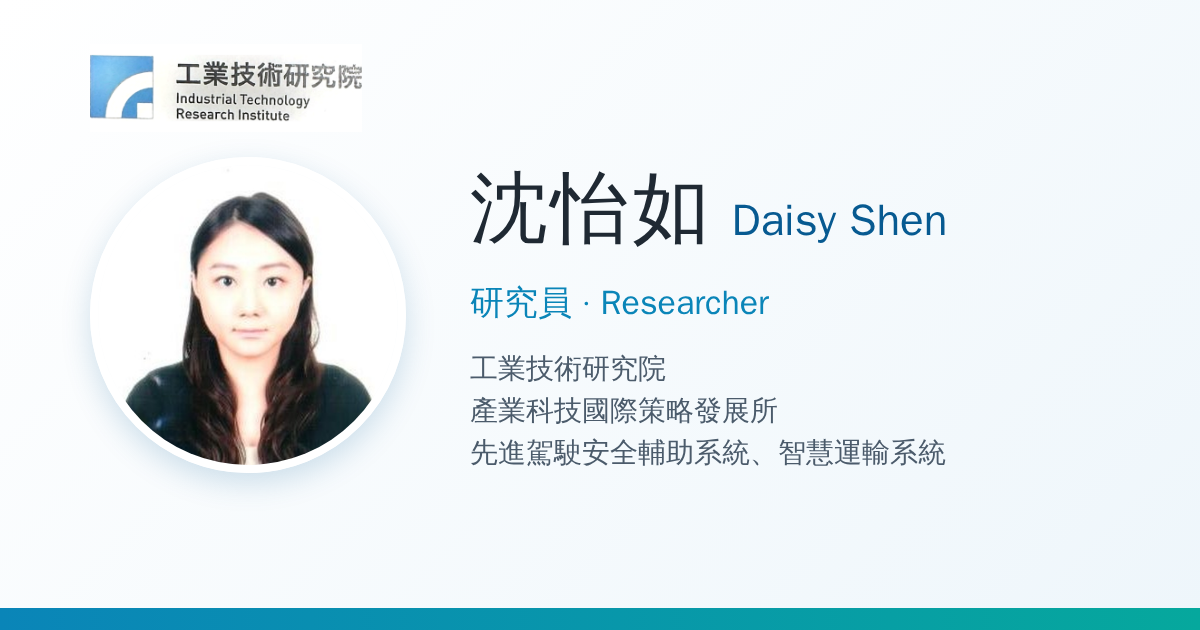
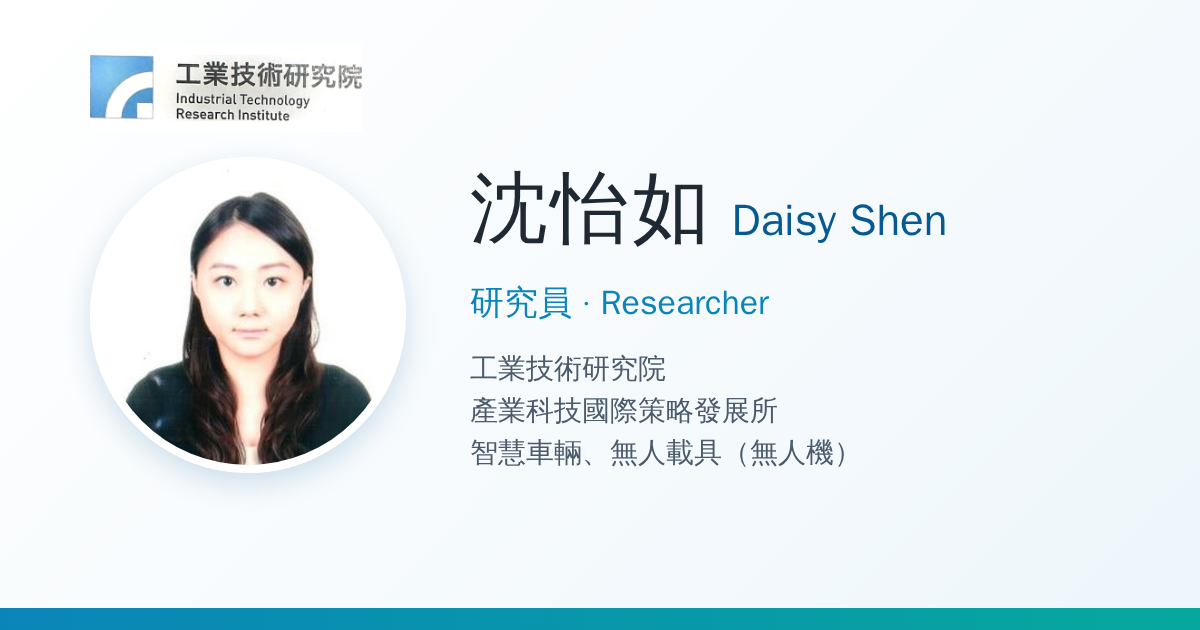
Update domain and expertise to smart vehicles and unmanned vehicles
Claude-Session: https://claude.ai/code/session_01NY8AqdpDoNgV5XpnomLSjT

Changed region(s): [[0.37, 0.6937, 0.8017, 0.754]]

diff --git a/card/config.js b/card/config.js
@@ -29,9 +29,9 @@ export const card = {
     nameSub: { zh: "Daisy Shen", en: "沈怡如", ja: "沈怡如" },
     title:   { zh: "研究員", en: "Researcher", ja: "研究員" },
     domain:  {
-      zh: "先進駕駛安全輔助系統、智慧運輸系統",
-      en: "Advanced Driver Assistance Systems & Intelligent Transportation Systems",
-      ja: "先進運転支援システム・高度道路交通システム（ITS）",
+      zh: "智慧車輛（聯網自駕車、車用電子）、無人載具（無人機）",
+      en: "Smart Vehicles (Connected & Autonomous Vehicles, Automotive Electronics) and Unmanned Vehicles (Drones)",
+      ja: "スマートビークル（コネクテッド自動運転車・車載エレクトロニクス）、無人機（ドローン）",
     },
     organization: {
       zh: ["工業技術研究院", "產業科技國際策略發展所", "智慧移動載具與應用研究部 機械與系統研究組"],
@@ -55,9 +55,9 @@ export const card = {
 
   expertise: {
     heading: {
-      zh: "智慧運輸與車輛產業研究",
-      en: "Intelligent Transportation & Automotive Industry Research",
-      ja: "高度道路交通と自動車産業の研究",
+      zh: "智慧車輛與無人載具研究",
+      en: "Smart Vehicle & Unmanned Vehicle Research",
+      ja: "スマートビークルと無人機の研究",
     },
     bio: {
       zh: "沈怡如（Daisy Shen）現任工研院產業科技國際策略發展所研究員，畢業於國立交通大學運輸科技與管理學系研究所，專長領域為智慧型運輸系統。",
@@ -71,10 +71,11 @@ export const card = {
     },
     // 3～5 項為宜，手機上超過 5 項會變長條
     items: [
+      { zh: "聯網自駕車",             en: "Connected & Autonomous Vehicles",           ja: "コネクテッド自動運転車" },
+      { zh: "車用電子",               en: "Automotive Electronics",                    ja: "車載エレクトロニクス" },
+      { zh: "無人載具（無人機）",     en: "Unmanned Vehicles (Drones)",                ja: "無人機（ドローン）" },
       { zh: "先進駕駛輔助系統（ADAS）", en: "Advanced Driver Assistance Systems (ADAS)", ja: "先進運転支援システム（ADAS）" },
       { zh: "智慧運輸系統（ITS）",     en: "Intelligent Transportation Systems (ITS)",  ja: "高度道路交通システム（ITS）" },
-      { zh: "聯網自駕車",             en: "Connected & Autonomous Vehicles",           ja: "コネクテッド自動運転車" },
-      { zh: "汽車電子產業",           en: "Automotive Electronics Industry",            ja: "車載エレクトロニクス産業" },
     ],
   },
 

diff --git a/card/index.html b/card/index.html
@@ -39,7 +39,7 @@
       <div class="identity-copy">
         <h1 id="profile-name"><span id="name-main">沈怡如</span> <span id="name-sub">Daisy Shen</span></h1>
         <p class="role" id="role">研究員 · Researcher</p>
-        <p class="domain" id="domain">先進駕駛安全輔助系統、智慧運輸系統</p>
+        <p class="domain" id="domain">智慧車輛（聯網自駕車、車用電子）、無人載具（無人機）</p>
         <p class="org" id="org">工業技術研究院<br>產業科技國際策略發展所<br>智慧移動載具與應用研究部 機械與系統研究組</p>
       </div>
     </div>
@@ -54,14 +54,15 @@
 
   <section class="expertise" aria-labelledby="expertise-title">
     <p class="step">ABOUT</p>
-    <h2 id="expertise-title">智慧運輸與車輛產業研究</h2>
+    <h2 id="expertise-title">智慧車輛與無人載具研究</h2>
     <p class="bio" id="bio">沈怡如（Daisy Shen）現任工研院產業科技國際策略發展所研究員，畢業於國立交通大學運輸科技與管理學系研究所，專長領域為智慧型運輸系統。</p>
     <p class="bio ai-advisory" id="advisory">曾任先進駕駛輔助系統軟體公司專案管理，及 FPGA 高階開發套件公司生產管理職務。目前研究領域為聯網自駕車、智慧交通及汽車電子等相關產業。</p>
     <ul class="expertise-list" id="expertise-list" aria-label="核心專長">
+      <li>聯網自駕車</li>
+      <li>車用電子</li>
+      <li>無人載具（無人機）</li>
       <li>先進駕駛輔助系統（ADAS）</li>
       <li>智慧運輸系統（ITS）</li>
-      <li>聯網自駕車</li>
-      <li>汽車電子產業</li>
     </ul>
   </section>
 
